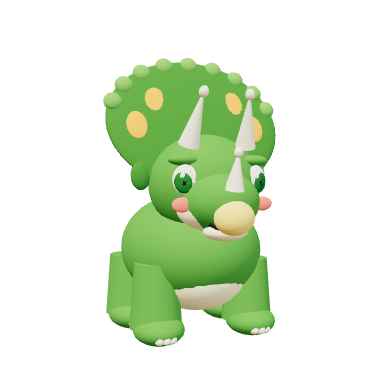
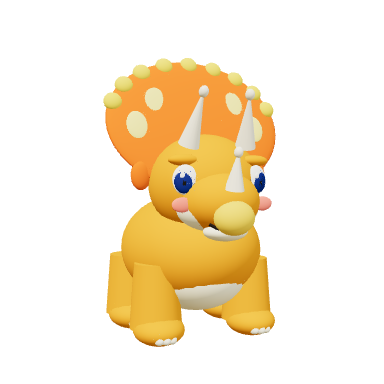
fix: 优化三角龙配色为经典暖阳金橙色，彻底修复前两球被困时四肢抖动问题

Changed region(s): [[0.25, 0.125, 0.7188, 0.9062]]

diff --git a/src/newFriendsModel.js b/src/newFriendsModel.js
@@ -732,18 +732,18 @@ export function createTayoModel(){
 
 export function createTriceratopsModel() {
  const root=new THREE.Group();root.name="Triceratops_Dino_Rig";
- const dinoGreen=mat(0x5ca848,.92),
-       bellyCream=mat(0xfff9db,.95),
-       frillGreen=mat(0x4a9238,.92),
-       frillAmber=mat(0xffb74d,.85),
-       frillRidge=mat(0x76c05d,.92),
-       hornIvory=mat(0xfffae8,.85,{roughness:.3}),
-       beakGold=mat(0xffe082,.9),
-       clawIvory=mat(0xfffde8,.85),
-       spineDark=mat(0x3e7b2f,.9),
+ const dinoOrange=mat(0xf59e0b,.88),   // 暖阳金橙色主色
+       bellyCream=mat(0xfffae0,.95),   // 柔软温和的香草奶黄腹部
+       frillOrange=mat(0xf97316,.88),  // 活力落日橙大颈盾
+       frillGold=mat(0xfde047,.90),    // 颈盾边缘亮金黄圆珠花边
+       spotYellow=mat(0xfef08a,.85),   // 颈盾与身上的明亮暖黄斑纹
+       spotCaramel=mat(0xd97706,.88),  // 焦糖暖褐背部斑点与甲片
+       hornIvory=mat(0xfffae8,.82,{roughness:.25}), // 温润光滑的象牙白犄角
+       beakGold=mat(0xfcd34d,.88),     // 角质小嘴
+       clawIvory=mat(0xfffde8,.85),    // 爪子
        dark=mat(0x2d2420,.45),
        eyeDark=mat(0x212121,.9),
-       eyeIris=mat(0x2e7d32,.75),
+       eyeIris=mat(0x1e3a8a,.8),       // 澄澈温和的深蓝眼珠
        mouthDark=mat(0x381520,.95),
        tonguePink=mat(0xf36e84,.88),
        blush=mat(0xff8a80,.55),
@@ -751,23 +751,23 @@ export function createTriceratopsModel() {
 
  // 躯干与饱满恐龙肚皮 (Torso)
  const body=pivot(root,"Torso",[0,.42,0]);
- ellipsoid(body,"Dino_Plump_Body",dinoGreen,[0,0,0],[.32,.26,.38]);
+ ellipsoid(body,"Dino_Plump_Body",dinoOrange,[0,0,0],[.32,.26,.38]);
  ellipsoid(body,"Cream_Belly",bellyCream,[0,-.10,.04],[.24,.18,.30]);
  // 背部圆润小骨板 / 刺甲
  for(let i=0;i<4;i++){
   const z=.16-i*.12;
-  ellipsoid(body,"Spine_Plate_"+i,spineDark,[0,.24,z],[.035,.065,.05]);
+  ellipsoid(body,"Spine_Plate_"+i,spotCaramel,[0,.24,z],[.035,.065,.05]);
  }
  // 臀部可爱小斑点
  for(const s of [-1,1]){
-  ellipsoid(body,s<0?"Hip_Spot_L":"Hip_Spot_R",frillAmber,[s*.22,.08,-.10],[.05,.05,.015]);
-  ellipsoid(body,s<0?"Back_Spot_L":"Back_Spot_R",frillAmber,[s*.15,.16,.02],[.038,.038,.012]);
+  ellipsoid(body,s<0?"Hip_Spot_L":"Hip_Spot_R",spotYellow,[s*.22,.08,-.10],[.05,.05,.015]);
+  ellipsoid(body,s<0?"Back_Spot_L":"Back_Spot_R",spotCaramel,[s*.15,.16,.02],[.038,.038,.012]);
  }
 
  // 头部与大颈盾 (Head)
  const head=pivot(root,"Head",[0,.72,.18]);
- ellipsoid(head,"Dino_Head",dinoGreen,[0,0,0],[.25,.22,.24]);
- ellipsoid(head,"Dino_Snout",dinoGreen,[0,-.07,.16],[.17,.13,.16]);
+ ellipsoid(head,"Dino_Head",dinoOrange,[0,0,0],[.25,.22,.24]);
+ ellipsoid(head,"Dino_Snout",dinoOrange,[0,-.07,.16],[.17,.13,.16]);
  ellipsoid(head,"Cream_Cheeks",bellyCream,[0,-.10,.14],[.18,.10,.14]);
  // 可爱鹦鹉形角质小喙 (Dino_Beak)
  ellipsoid(head,"Dino_Beak",beakGold,[0,-.13,.30],[.085,.070,.065]);
@@ -775,17 +775,17 @@ export function createTriceratopsModel() {
  // 标志性大颈盾 (Neck_Frill)
  const frill=pivot(head,"Neck_Frill",[0,.14,-.06]);
  frill.rotation.x=-.32;
- ellipsoid(frill,"Frill_Shield_Base",frillGreen,[0,.14,0],[.42,.32,.038]);
+ ellipsoid(frill,"Frill_Shield_Base",frillOrange,[0,.14,0],[.42,.32,.038]);
  // 颈盾波浪花边装饰珠 (Frill_Rim_Scallops)
  for(let i=0;i<9;i++){
   const angle=Math.PI*(.1+.8*(i/8));
   const rx=Math.cos(angle)*.40,ry=.14+Math.sin(angle)*.30;
-  ellipsoid(frill,"Frill_Bead_"+i,frillRidge,[rx,ry,.005],[.042,.042,.028]);
+  ellipsoid(frill,"Frill_Bead_"+i,frillGold,[rx,ry,.005],[.042,.042,.028]);
  }
  // 颈盾太阳斑纹
  for(const s of [-1,1]){
-  ellipsoid(frill,s<0?"Frill_Spot_L1":"Frill_Spot_R1",frillAmber,[s*.18,.22,.022],[.075,.095,.012]);
-  ellipsoid(frill,s<0?"Frill_Spot_L2":"Frill_Spot_R2",frillAmber,[s*.28,.12,.022],[.055,.070,.012]);
+  ellipsoid(frill,s<0?"Frill_Spot_L1":"Frill_Spot_R1",spotYellow,[s*.18,.22,.022],[.075,.095,.012]);
+  ellipsoid(frill,s<0?"Frill_Spot_L2":"Frill_Spot_R2",spotYellow,[s*.28,.12,.022],[.055,.070,.012]);
  }
 
  // 标志性三只圆钝犄角 (Horn_Brow_L / Horn_Brow_R / Horn_Nose)
@@ -815,11 +815,11 @@ export function createTriceratopsModel() {
   ellipsoid(eye,"Catchlight",white,[-.012,.016,.020],[.012,.014,.006]);
   ellipsoid(eye,"Catchlight_Small",white,[.012,-.014,.018],[.006,.007,.004]);
   // 眉骨与腮红
-  ellipsoid(head,s<0?"Brow_L":"Brow_R",dinoGreen,[s*.16,.10,.16],[.065,.024,.035]);
+  ellipsoid(head,s<0?"Brow_L":"Brow_R",dinoOrange,[s*.16,.10,.16],[.065,.024,.035]);
   ellipsoid(head,s<0?"Blush_L":"Blush_R",blush,[s*.18,-.08,.20],[.045,.030,.012]);
   // 耳侧枢轴（供耳部灵动微摇）
   const ear=pivot(head,s<0?"Ear_L":"Ear_R",[s*.28,.04,-.04]);
-  ellipsoid(ear,"Frill_Ear_Flank",frillGreen,[0,0,0],[.045,.065,.025]);
+  ellipsoid(ear,"Frill_Ear_Flank",frillOrange,[0,0,0],[.045,.065,.025]);
  }
 
  // 微笑嘴巴与下颌 (Mouth / Smile / Happy_Mouth)
@@ -835,15 +835,15 @@ export function createTriceratopsModel() {
  // 四肢粗壮稳健小恐龙腿 (Arm_L/R 前腿, Leg_L/R 后腿)
  for(const s of [-1,1]){
   const arm=pivot(root,s<0?"Arm_L":"Arm_R",[s*.22,.36,.16]);
-  mesh(new THREE.CylinderGeometry(.095,.115,.28,16),dinoGreen,arm,"Foreleg",[0,-.12,0]);
-  ellipsoid(arm,"Forefoot",dinoGreen,[0,-.26,.04],[.11,.065,.12]);
+  mesh(new THREE.CylinderGeometry(.095,.115,.28,16),dinoOrange,arm,"Foreleg",[0,-.12,0]);
+  ellipsoid(arm,"Forefoot",dinoOrange,[0,-.26,.04],[.11,.065,.12]);
   for(let j=0;j<3;j++){
    const angle=(j-1)*.35;
    ellipsoid(arm,"Toenail_F_"+j,clawIvory,[Math.sin(angle)*.08,-.28,.04+Math.cos(angle)*.09],[.022,.022,.035]);
   }
   const leg=pivot(root,s<0?"Leg_L":"Leg_R",[s*.24,.36,-.16]);
-  mesh(new THREE.CylinderGeometry(.105,.125,.28,16),dinoGreen,leg,"Hindleg",[0,-.12,0]);
-  ellipsoid(leg,"Hindfoot",dinoGreen,[0,-.26,.04],[.12,.070,.13]);
+  mesh(new THREE.CylinderGeometry(.105,.125,.28,16),dinoOrange,leg,"Hindleg",[0,-.12,0]);
+  ellipsoid(leg,"Hindfoot",dinoOrange,[0,-.26,.04],[.12,.070,.13]);
   for(let j=0;j<3;j++){
    const angle=(j-1)*.35;
    ellipsoid(leg,"Toenail_H_"+j,clawIvory,[Math.sin(angle)*.09,-.28,.04+Math.cos(angle)*.10],[.024,.024,.038]);
@@ -852,14 +852,14 @@ export function createTriceratopsModel() {
 
  // 圆润粗壮恐龙小尾巴 (Tail)
  const tail=pivot(root,"Tail",[0,.36,-.28]);
- ellipsoid(tail,"Dino_Tail",dinoGreen,[0,-.06,-.18],[.11,.11,.24]);
- ellipsoid(tail,"Tail_Tip",dinoGreen,[0,-.12,-.36],[.065,.065,.14]);
- for(let i=0;i<3;i++)ellipsoid(tail,"Tail_Spine_"+i,spineDark,[0,.03,-.10-i*.10],[.025,.045,.035]);
+ ellipsoid(tail,"Dino_Tail",dinoOrange,[0,-.06,-.18],[.11,.11,.24]);
+ ellipsoid(tail,"Tail_Tip",dinoOrange,[0,-.12,-.36],[.065,.065,.14]);
+ for(let i=0;i<3;i++)ellipsoid(tail,"Tail_Spine_"+i,spotCaramel,[0,.03,-.10-i*.10],[.025,.045,.035]);
 
  // 装饰领花 (Bow)
  const bow=pivot(root,"Bow",[0,.54,.30]);
- const flowerMat=mat(0xffb74d,.85);
- ellipsoid(bow,"Bow_Center",bellyCream,[0,0,.01],[.035,.035,.02]);
+ const flowerMat=mat(0xfde047,.90);
+ ellipsoid(bow,"Bow_Center",spotCaramel,[0,0,.01],[.035,.035,.02]);
  for(let i=0;i<5;i++){
   const a=i*Math.PI*2/5;
   ellipsoid(bow,"Flower_Petal_"+i,flowerMat,[Math.cos(a)*.05,Math.sin(a)*.05,0],[.028,.028,.015]);

diff --git a/src/rescueAnimal.js b/src/rescueAnimal.js
@@ -475,12 +475,19 @@ export class RescueAnimal {
           this.currentY=this.groundY;this.animalGroup.position.y=this.groundY;
           this.headGroup.rotation.z=Math.sin(p*Math.PI)*.10;
         }else if(this.animalId==='triceratops'){
-          const stride=Math.sin(p*Math.PI*22);
+          this.currentY=this.groundY;this.animalGroup.position.y=this.groundY;
+          this.headGroup.rotation.x=-Math.sin(p*Math.PI)*.14;
+          this.headGroup.rotation.z=Math.sin(p*Math.PI*2)*.06;
+          this.tailGroup.rotation.y=Math.sin(p*Math.PI*2)*.22;
+          this.leftArm.rotation.set(0,0,0);this.rightArm.rotation.set(0,0,0);
+          this.leftLeg.rotation.set(0,0,0);this.rightLeg.rotation.set(0,0,0);
+        }else if(this.animalId==='triceratops'){
+          const stride=Math.sin(p*Math.PI*20);
           this.model.scale.set(1,1,1);jump=this.reducedMotion?0:Math.abs(stride)*.035;
           this.currentY=this.groundY+jump;this.animalGroup.position.y=this.currentY;
-          this.leftArm.rotation.x=stride*.38;this.rightArm.rotation.x=-stride*.38;
-          this.leftLeg.rotation.x=-stride*.35;this.rightLeg.rotation.x=stride*.35;
-          this.tailGroup.rotation.y=Math.sin(p*Math.PI*18)*.22;this.headGroup.rotation.x=-.04+Math.sin(p*Math.PI*22)*.06;
+          this.leftArm.rotation.x=stride*.36;this.rightArm.rotation.x=-stride*.36;
+          this.leftLeg.rotation.x=-stride*.32;this.rightLeg.rotation.x=stride*.32;
+          this.tailGroup.rotation.y=Math.sin(p*Math.PI*16)*.22;this.headGroup.rotation.x=-.04+Math.sin(p*Math.PI*20)*.05;
         }else if(['cat','dog','chase'].includes(this.animalId)) {
           this.currentY=this.groundY;this.animalGroup.position.y=this.groundY;
           this.headGroup.rotation.z=Math.sin(p*Math.PI)*.12;
@@ -488,13 +495,18 @@ export class RescueAnimal {
           if(this.animalId==='dog'){this.leftEarGroup.rotation.x=this.rightEarGroup.rotation.x=Math.sin(p*Math.PI*2)*.12;this.model.scale.y=1+Math.sin(p*Math.PI)*.025;}
           this.tailGroup.rotation.z=Math.sin(p*Math.PI*2)*.22;
         }else jump=this.animateHop(p,this.reducedMotion?.025:(this.animalId==='frog'?.22:.14)*boost);
-        this.leftArm.rotation.z=-Math.sin(p*Math.PI)*.45;this.rightArm.rotation.z=Math.sin(p*Math.PI)*.45;
+        if(!['thomas','excavator','mcqueen','tayo','triceratops'].includes(this.animalId)){this.leftArm.rotation.z=-Math.sin(p*Math.PI)*.45;this.rightArm.rotation.z=Math.sin(p*Math.PI)*.45;}
         for(const m of this.bowMaterials){m.emissive=new THREE.Color(0xe6a94e);m.emissiveIntensity=Math.sin(p*Math.PI)*.6;}
       }else {
         this.currentY=this.groundY;this.animalGroup.position.y=this.groundY;this.headGroup.rotation.x=0;
         if(this.moodExcited>0&&!this.reducedMotion)this.model.position.y=Math.abs(Math.sin(this.idleTime*5))*.015*this.moodExcited;
-        this.leftArm.rotation.set(-.12,0,.17);this.rightArm.rotation.set(-.12,0,-.17);
-        this.leftLeg.rotation.x=this.rightLeg.rotation.x=0;
+        if(this.animalId==='triceratops'){
+          this.leftArm.rotation.set(0,0,0);this.rightArm.rotation.set(0,0,0);
+          this.leftLeg.rotation.set(0,0,0);this.rightLeg.rotation.set(0,0,0);
+        }else{
+          this.leftArm.rotation.set(-.12,0,.17);this.rightArm.rotation.set(-.12,0,-.17);
+          this.leftLeg.rotation.x=this.rightLeg.rotation.x=0;
+        }
         this.leftEarGroup.rotation.x=this.rightEarGroup.rotation.x=0;
         this.tailGroup.rotation.z=['cat','dog','chase'].includes(this.animalId)?Math.sin(this.idleTime*(this.animalId==='dog'?5:1.9))*(this.animalId==='dog'?.25:.12):0;
       }
@@ -505,7 +517,14 @@ export class RescueAnimal {
         if(this.animalId==='goldenDragon'){
           jump=this.reducedMotion?0:Math.sin(t/.65*Math.PI)*.10;this.animalGroup.position.y=this.groundY+jump;
           this.model.scale.set(1,1,1);
-        }else if(['excavator','thomas','tayo'].includes(this.animalId)){
+        }else if(['excavator','thomas','tayo','triceratops'].includes(this.animalId)){
+          if(this.animalId==='triceratops'){
+            this.currentY=this.groundY;this.animalGroup.position.y=this.groundY;
+            this.headGroup.rotation.x=-Math.sin(t/.65*Math.PI)*.16;
+            this.tailGroup.rotation.y=Math.sin(t/.65*Math.PI*3)*.25;
+            this.leftArm.rotation.set(0,0,0);this.rightArm.rotation.set(0,0,0);
+            this.leftLeg.rotation.set(0,0,0);this.rightLeg.rotation.set(0,0,0);
+          }else
           this.currentY=this.groundY;this.animalGroup.position.y=this.groundY;
           this.bodyMesh.rotation.z=Math.sin(t/.65*Math.PI)*.035;
         }else if(['cat','dog','chase'].includes(this.animalId)) {
@@ -514,7 +533,7 @@ export class RescueAnimal {
           this.leftArm.rotation.x=this.rightArm.rotation.x=-stretch*.6;this.tailGroup.rotation.z=-stretch*.3;
         }else jump=this.animateHop(t/.65,this.reducedMotion?.05:(this.animalId==='frog'?.43:.34));
         this.animalGroup.rotation.y=THREE.MathUtils.lerp(.15,Math.PI/2,smooth(t/.65));
-        if(!['thomas','excavator','mcqueen','tayo'].includes(this.animalId)){this.leftArm.rotation.z=-.45;this.rightArm.rotation.z=.45;}
+        if(!['thomas','excavator','mcqueen','tayo','triceratops'].includes(this.animalId)){this.leftArm.rotation.z=-.45;this.rightArm.rotation.z=.45;}
       }else if(t<3.15) {
         this.state='ESCAPING';const p=(t-.65)/2.5;const count=this.animalId==='frog'?4:5;
         const hopPos=p*count;const phase=hopPos%1;
@@ -561,7 +580,7 @@ export class RescueAnimal {
         this.setQuadrupedPosture(1-smooth(clamp((t-3.15)/.22,0,1)));
         this.headGroup.rotation.z=-.1;
         if(['cat','dog','chase'].includes(this.animalId))this.tailGroup.rotation.z=Math.sin((t-3.15)*12)*.3;
-        if(['thomas','excavator','tayo'].includes(this.animalId)){this.leftArm.rotation.set(0,0,0);this.rightArm.rotation.set(0,0,0);}
+        if(['thomas','excavator','tayo','triceratops'].includes(this.animalId)){this.leftArm.rotation.set(0,0,0);this.rightArm.rotation.set(0,0,0);if(this.animalId==='triceratops'){this.headGroup.rotation.x=Math.sin((t-3.15)*10)*.12;this.tailGroup.rotation.y=Math.sin((t-3.15)*12)*.3;}}
         else{this.leftArm.rotation.set(0,0,-1.7+Math.sin((t-3.15)*20)*.22);this.rightArm.rotation.set(0,0,-.1);}
         this.leftLeg.rotation.x=this.rightLeg.rotation.x=0;
         this.leftEarGroup.rotation.x=this.rightEarGroup.rotation.x=0;

diff --git a/src/animalExpressions.js b/src/animalExpressions.js
@@ -6,7 +6,7 @@ const FACE={
  dog:{width:.044,depth:.032,top:1.30,colour:0xe3ac7d},
  dragon:{width:.052,depth:.044,top:1.50,colour:0x97cbbb},
  goldenDragon:{width:.048,depth:.046,top:1.63,colour:0xeac166},
- teddy:{width:.043,depth:.028,top:1.34,colour:0xe69891},wolf:{width:.044,depth:.032,top:1.30,colour:0xe3ac7d},mcqueen:{width:.05,depth:.028,top:1.10,colour:0xffca48},chase:{width:.044,depth:.032,top:1.4,colour:0xffd075},jett:{width:.044,depth:.028,top:1.35,colour:0x97c8eb},peppa:{width:.043,depth:.028,top:1.4,colour:0xf2a1b3},thomas:{width:.048,depth:.028,top:1.32,colour:0x8cc5df},excavator:{width:.07,depth:.035,top:1.48,colour:0xffd66b},tayo:{width:.048,depth:.028,top:1.32,colour:0x74b9ff},triceratops:{width:.054,depth:.030,top:1.32,colour:0x7cb342}
+ teddy:{width:.043,depth:.028,top:1.34,colour:0xe69891},wolf:{width:.044,depth:.032,top:1.30,colour:0xe3ac7d},mcqueen:{width:.05,depth:.028,top:1.10,colour:0xffca48},chase:{width:.044,depth:.032,top:1.4,colour:0xffd075},jett:{width:.044,depth:.028,top:1.35,colour:0x97c8eb},peppa:{width:.043,depth:.028,top:1.4,colour:0xf2a1b3},thomas:{width:.048,depth:.028,top:1.32,colour:0x8cc5df},excavator:{width:.07,depth:.035,top:1.48,colour:0xffd66b},tayo:{width:.048,depth:.028,top:1.32,colour:0x74b9ff},triceratops:{width:.054,depth:.030,top:1.32,colour:0xf97316}
 };
 function stroke(parent,points,r,material){const path=new THREE.CatmullRomCurve3(points.map(p=>new THREE.Vector3(...p)));const m=new THREE.Mesh(new THREE.TubeGeometry(path,18,r,6,false),material);parent.add(m);return m;}
 function heart(){const s=new THREE.Shape();s.moveTo(0,-.035);s.bezierCurveTo(-.11,.03,-.055,.10,0,.055);s.bezierCurveTo(.055,.10,.11,.03,0,-.035);return new THREE.ShapeGeometry(s,16);}

diff --git a/src/animalPhrases.js b/src/animalPhrases.js
@@ -26,7 +26,7 @@ export const ANIMAL_PHRASES={
 const favorites={bunny:['hello-play','like-red','how-are-you'],cat:['play-ball','like-orange','happy-today'],
   frog:['how-are-you','like-green','hello-play'],dog:['play-ball','happy-today','like-blue'],
   dragon:['hello-play','like-blue','how-are-you'],goldenDragon:['like-yellow','hello-play','happy-today'],
-  mcqueen:['hello-play','like-red','happy-today'],wolf:['play-ball','hello-play','like-green'],teddy:['happy-today','hello-play','like-yellow'],chase:['hello-play','like-blue','play-ball'],jett:['hello-play','like-red','happy-today'],peppa:['hello-play','happy-today','like-red'],thomas:['hello-play','like-blue','how-are-you'],excavator:['hello-play','like-yellow','happy-today'],tayo:['hello-play','like-blue','happy-today'],triceratops:['hello-play','like-green','happy-today']};
+  mcqueen:['hello-play','like-red','happy-today'],wolf:['play-ball','hello-play','like-green'],teddy:['happy-today','hello-play','like-yellow'],chase:['hello-play','like-blue','play-ball'],jett:['hello-play','like-red','happy-today'],peppa:['hello-play','happy-today','like-red'],thomas:['hello-play','like-blue','how-are-you'],excavator:['hello-play','like-yellow','happy-today'],tayo:['hello-play','like-blue','happy-today'],triceratops:['hello-play','like-orange','happy-today']};
 export function chooseAnimalPhrase(phase,animalId,previousId=null,random=Math.random){
   let pool=ANIMAL_PHRASES[phase]||ANIMAL_PHRASES.start;
   if(phase==='start')pool=pool.filter(p=>(favorites[animalId]||favorites.bunny).includes(p.id));
